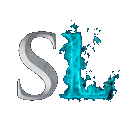
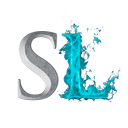
Small splash screen tweaks

diff --git a/runelite-client/src/main/java/net/runelite/client/ui/SanLiteSplashScreen.java b/runelite-client/src/main/java/net/runelite/client/ui/SanLiteSplashScreen.java
@@ -37,7 +37,7 @@ public class SanLiteSplashScreen
 
 		// Init fields with updated swing look and feel
 		frame = new JFrame("SanLite");
-		messageLabel = new JLabel("Loading...");
+		messageLabel = new JLabel("Loading client");
 		subMessageLabel = new JLabel();
 		progressBar.setUI(new BasicProgressBarUI());
 		progressBar.setMinimum(0);
@@ -94,7 +94,6 @@ public class SanLiteSplashScreen
 		final GridBagConstraints progressConstraints = new GridBagConstraints();
 		progressConstraints.insets = new Insets(0, 25, 0, 25);
 		progressConstraints.fill = GridBagConstraints.HORIZONTAL;
-		//progressConstraints.anchor = GridBagConstraints.SOUTH;
 		progressConstraints.gridy = 3;
 		panel.add(progressBar, progressConstraints);
 
@@ -170,7 +169,7 @@ public class SanLiteSplashScreen
 			{
 				return;
 			}
-			messageLabel.setText(subMessage);
+			subMessageLabel.setText(subMessage);
 		});
 	}
 }

diff --git a/runelite-client/src/main/java/net/runelite/client/util/SwingUtil.java b/runelite-client/src/main/java/net/runelite/client/util/SwingUtil.java
@@ -94,8 +94,8 @@ public class SwingUtil
 		UIManager.put("ProgressBar.selectionBackground", ColorScheme.BRAND_BLUE);
 		UIManager.put("ProgressBar.selectionForeground", Color.BLACK);
 		UIManager.put("ProgressBar.border", new EmptyBorder(0, 0, 0, 0));
-		UIManager.put("ProgressBar.verticalSize", new Dimension(12, 10));
-		UIManager.put("ProgressBar.horizontalSize", new Dimension(10, 12));
+		UIManager.put("ProgressBar.verticalSize", new Dimension(16, 10));
+		UIManager.put("ProgressBar.horizontalSize", new Dimension(10, 16));
 		UIManager.put("ProgressBarUI", BasicProgressBarUI.class.getName());
 
 		// Do not render shadows under popups/tooltips.

diff --git a/bootstrapper/src/main/java/net/runelite/bootstrap/BootstrapperProperties.java b/bootstrapper/src/main/java/net/runelite/bootstrap/BootstrapperProperties.java
@@ -30,12 +30,12 @@ public class BootstrapperProperties
 		}
 	}
 
-	public String getRuneLiteVersion()
+	String getRuneLiteVersion()
 	{
 		return properties.getProperty(RUNELITE_VERSION);
 	}
 
-	public String getSanLiteVersion()
+	String getSanLiteVersion()
 	{
 		return properties.getProperty(SANLITE_VERSION);
 	}
